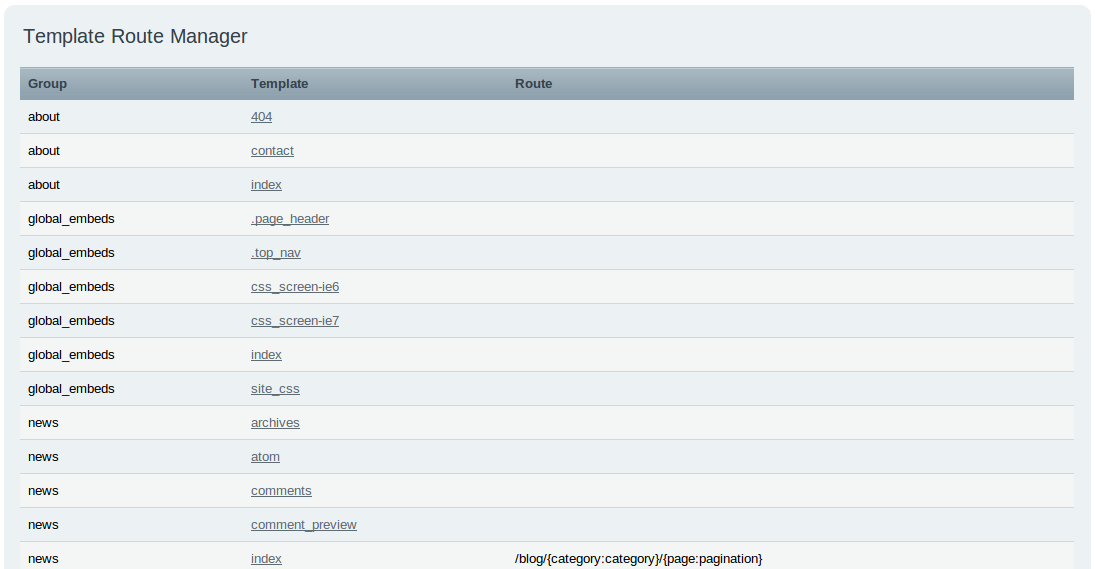
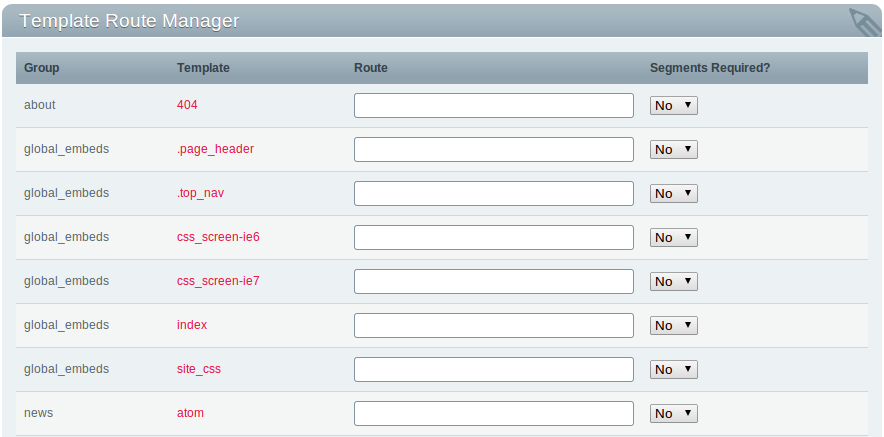
Updating template route docs to match latest updates

diff --git a/source/templates/globals/path.rst b/source/templates/globals/path.rst
@@ -26,18 +26,33 @@ The path variable is most commonly used to create a link, like this::
 
 	<a href="{path='channel/archives'}">My Archives Page</a>
 
-If your template has a Template Route assigned to it you can assign
-values to your segment variables and generate a path like so::
 
-	{path='channel/archives' year='2009' month='june'}
+Route Variables
+~~~~~~~~~~~~~~~
+
+If you are using Template Routes you may wish to generate paths
+based on your defined template route instead of the default URL
+structure. The syntax for doing so looks like so::
+
+    {route='group/template'}
+
+Where "group" is the name of the group your template belongs to and
+"template" is the template name.
+
+If your template has a Template Route with defined segment variables
+you can assign values to your segment variables and generate a path
+like so::
+
+	{route='channel/archives' year='2009' month='june'}
 
 If the template has the following Template Route assigned::
 
 	/archive/{year}/{month}
 
-The previous path variable will be rendered as::
+The previous route variable will be rendered as::
 
 	http://example.com/index.php/archive/2009/june/
+
 
 Why not hard code URLs instead?
 ~~~~~~~~~~~~~~~~~~~~~~~~~~~~~~~

diff --git a/source/urls/template_routes.rst b/source/urls/template_routes.rst
@@ -16,6 +16,12 @@ You can set the route for a template using the Access section of the
 Template Manager. To see an overview of your site's routes use the 
 Template Route Manager.
 
+ExpressionEngine matches routes by starting with the shortest defined
+route and checking for a match, if the route does not match it will
+then check the next shortest route until a match is found. The Template
+Route Manager lists your Template Routes in the order they are
+processed when matching a URL.
+
 Template Route
 ~~~~~~~~~~~~~~
 
@@ -193,7 +199,11 @@ as::
 
 Then in your templates you can generate a path to that template using::
 
-	{path="template_group/template" first_name"Enrico" last_name="Fermi"}
+	{route="template_group/template" first_name"Enrico" last_name="Fermi"}
+
+The route variable requires the template group and template name. You
+can optionally provide values for your defined route segments, you must
+use the same variable defined in your route.
 
 
 Template Route Manager

diff --git a/source/cp/design/templates/template_route_manager.rst b/source/cp/design/templates/template_route_manager.rst
@@ -6,7 +6,10 @@ Template Route Manager
 **Control Panel Location:** :menuselection:`Design --> Templates --> Template Route Manager`
 
 The Template Route Manager provides an overview of all your templates and
-allows you to see which URL goes to which template at a glance.
+allows you to edit and manage your Template Routes.
+
+Routes are listed in the order that the Template Router will match your
+templates.
 
 |Template Route Manager|
 
